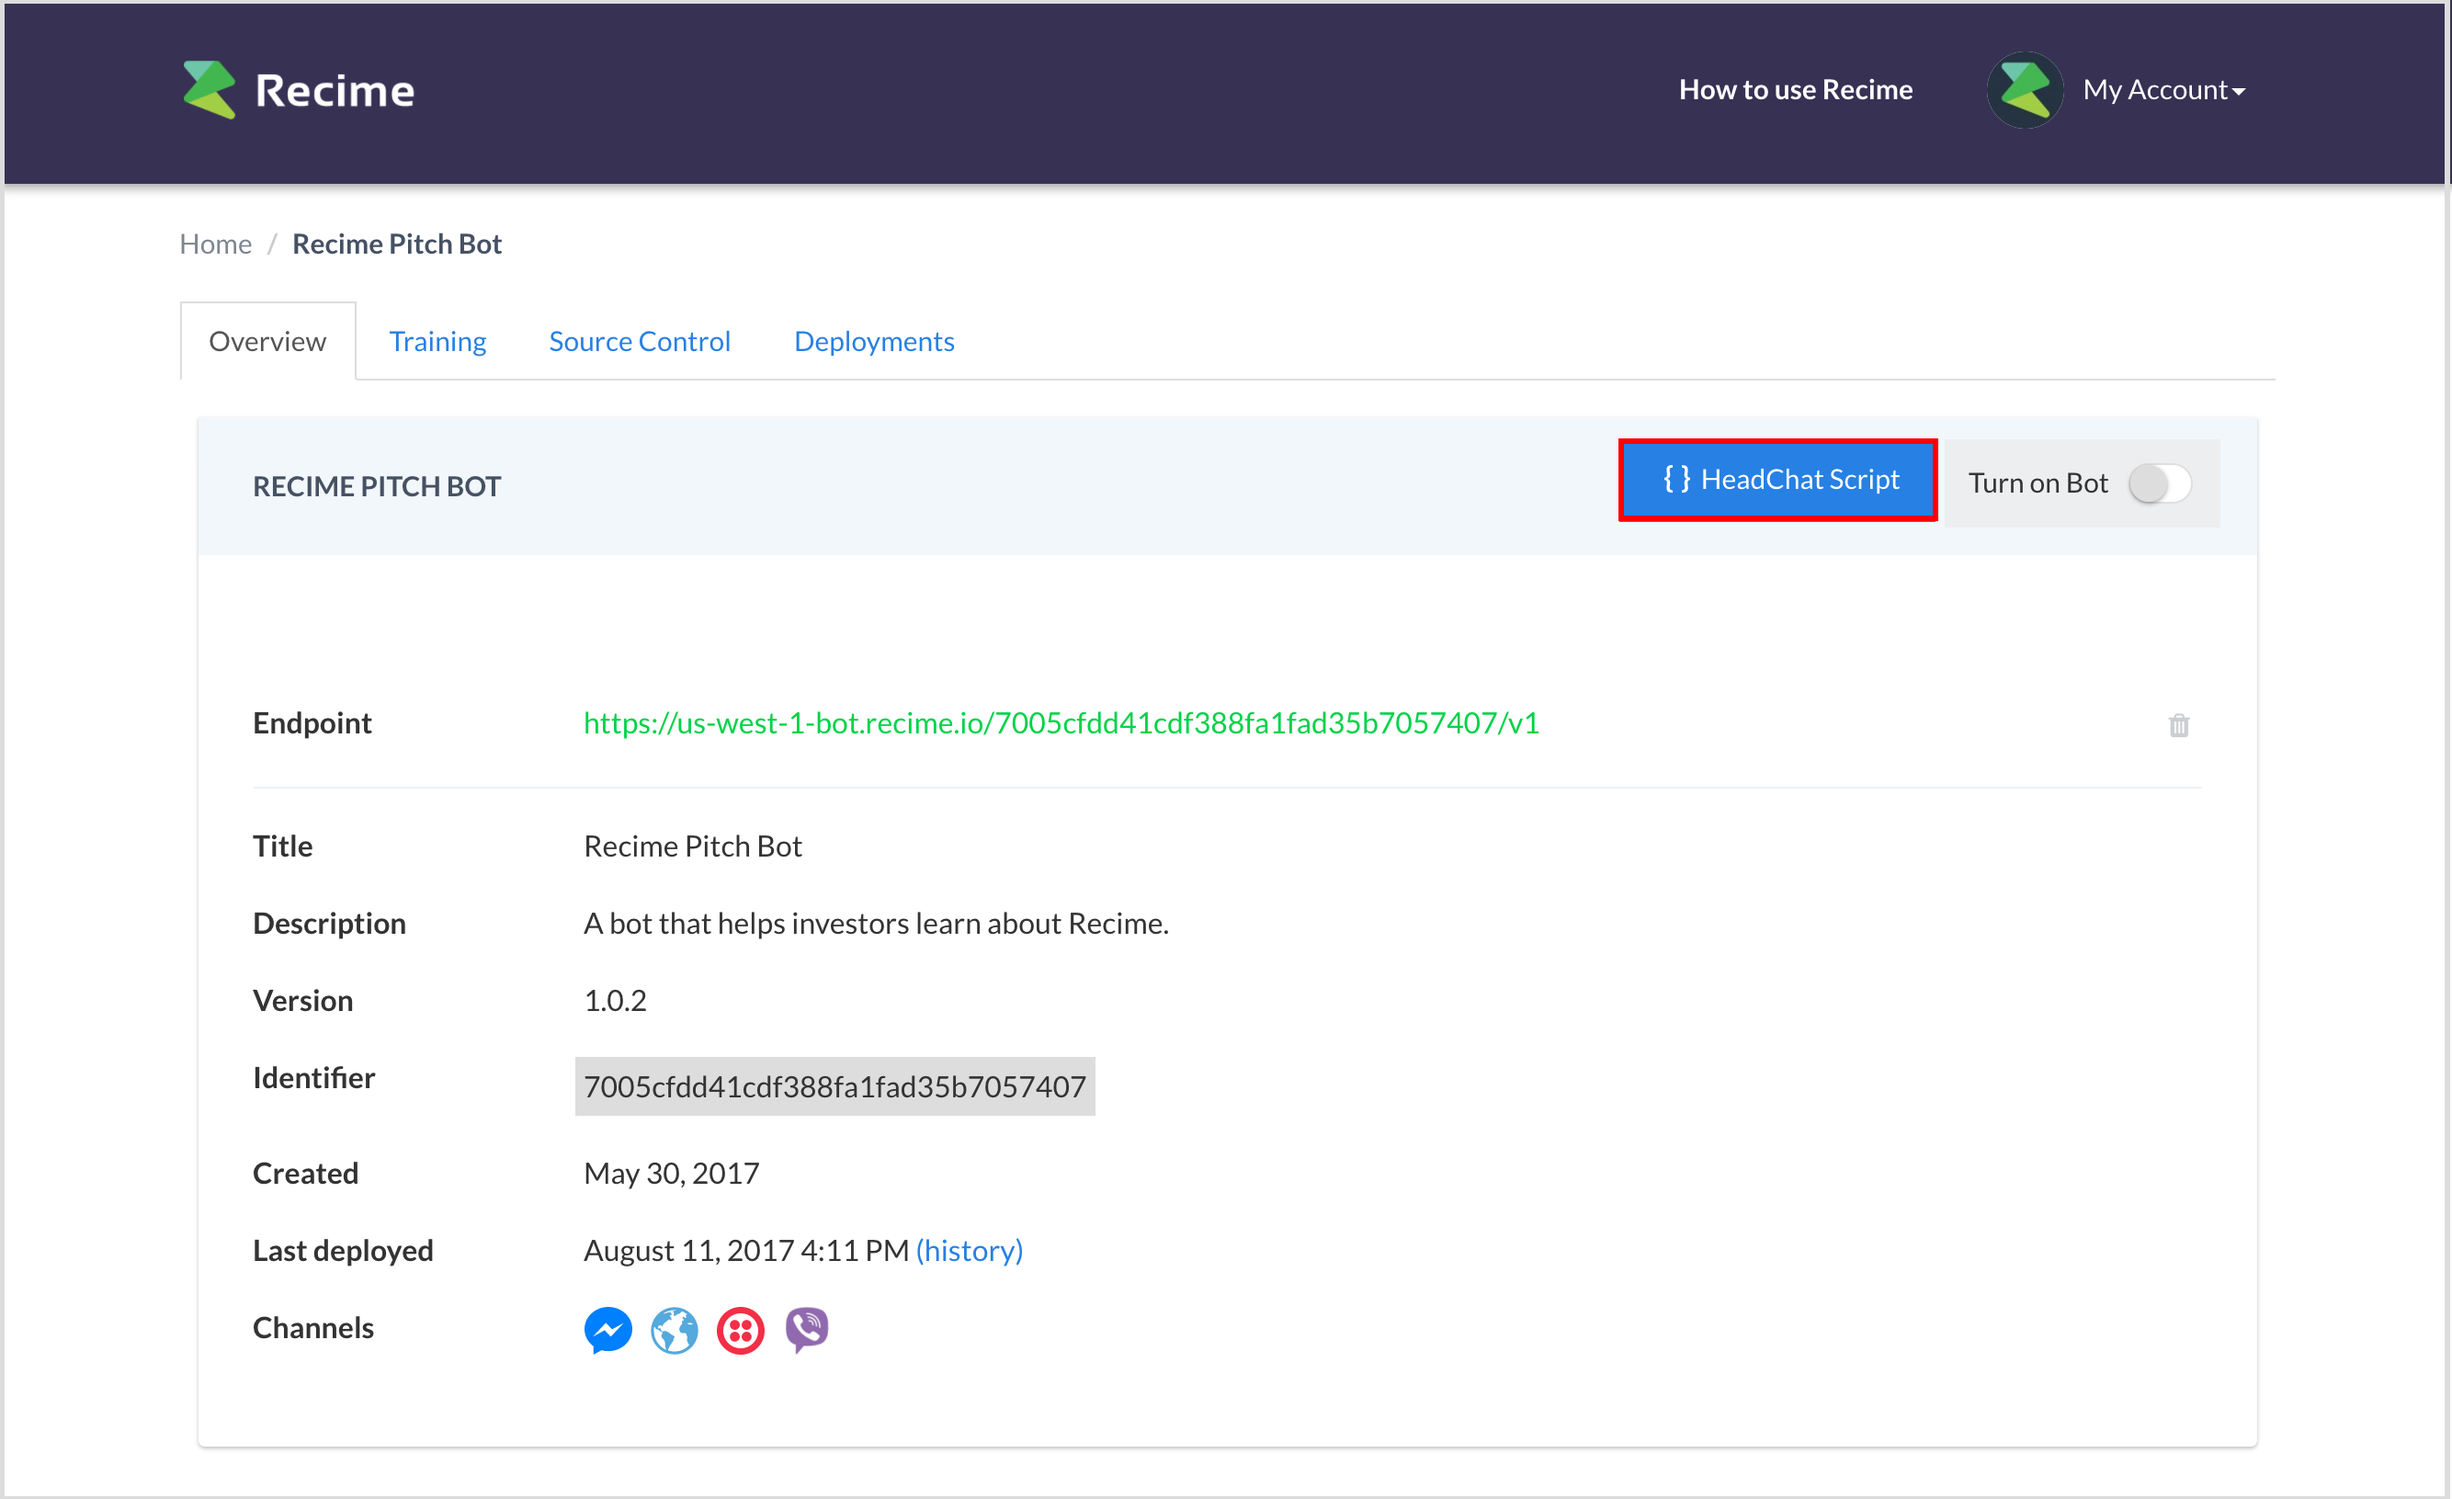
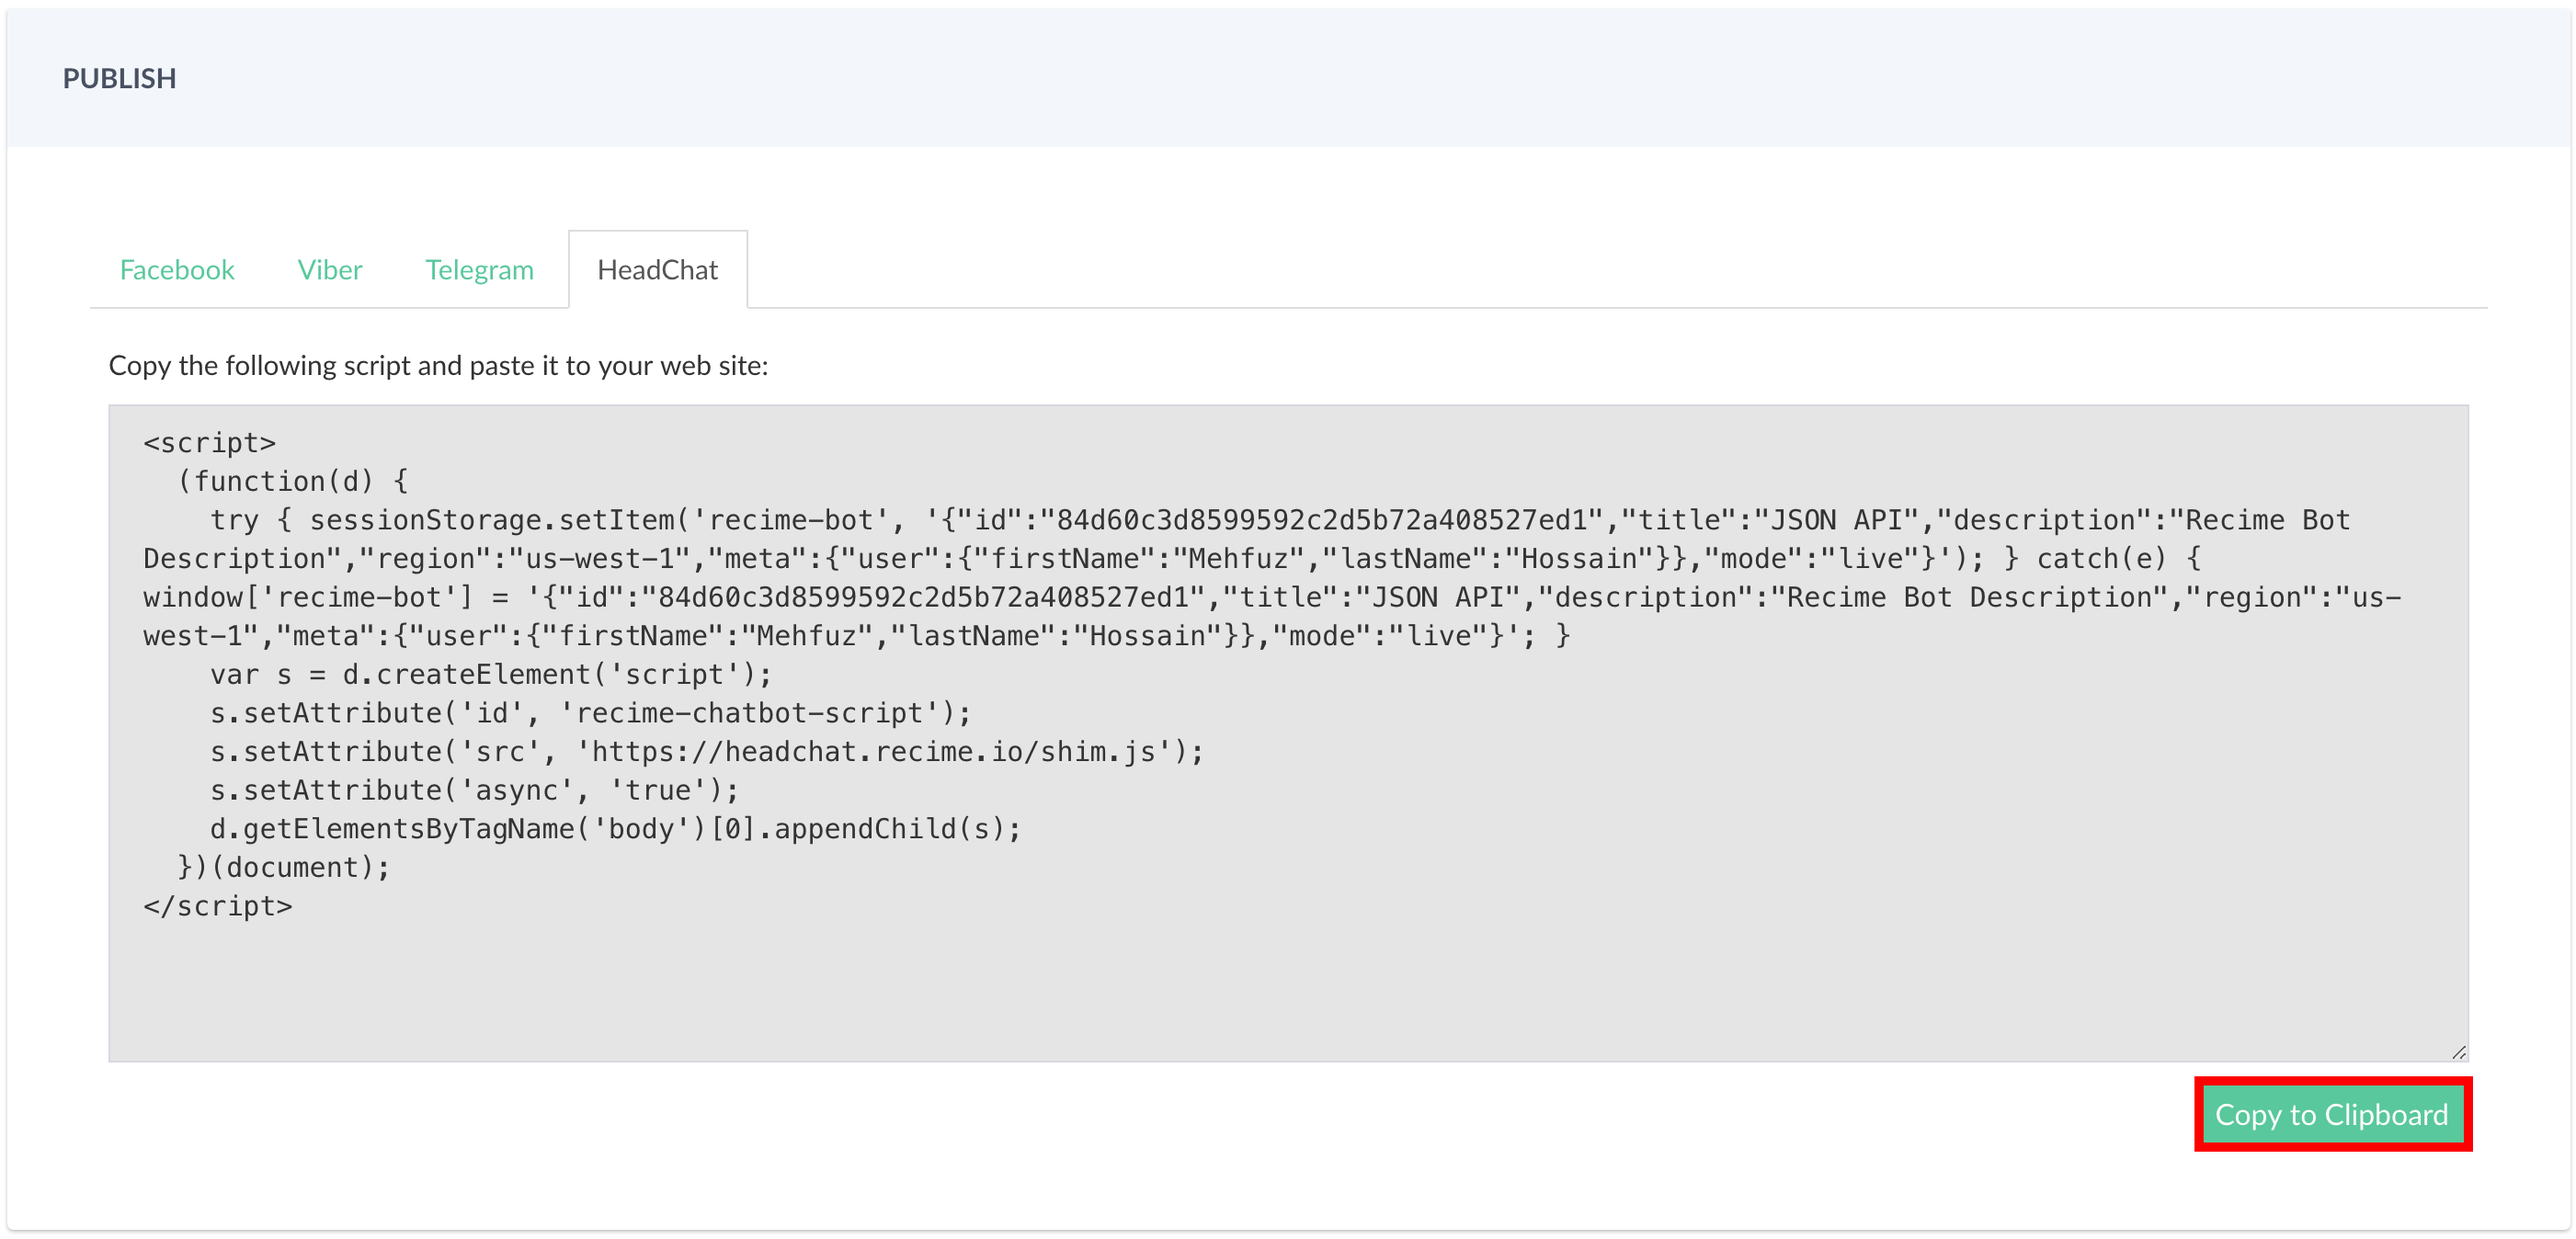
updates

diff --git a/headchat.md b/headchat.md
@@ -1,19 +1,17 @@
 # HeadChat
 
-Now you can take your chatbot and deploy to it your website in just a few steps. 
+Deploy your chatbot to your website in seconds.
 
-Once you have deployed the bot. You can do it by going to your [console.recime.io](https://console.recime.io) dashboard and copying the script by clicking the `headchat` button as shown below:
+Once you have deployed the bot. Go to your [dashboard](https://console.recime.io) dashboard and copy the script from `publish->headchat` tab as shown below:  
 
 ![](headchat.png)
 
 
-To get the messenger to appear on your web page simply paste the snippet before the `</body>` tag. That's it, you should now see the `headchat` icon and clicking on it will open up the conversation dialog.
+To get the messenger to appear on your web page, simply paste the snippet before the `</body>` tag. That's it, you should now see the `headchat` icon. Click on it to start chatting.
 
 
-![](pitchbot.png)
-
-It supports most of the Facebook `metadata` and your Facebook chatbot should work without a single line of code change. If you are using the `recime-bot-extension` npm package then all of these should be taken care of automatically.
+![](faqbot.png)
 
 
-
+`HeadChat` support rich metadata enabling you to go beyond simple FAQs and bring in rich AI customer experience. 
 

diff --git a/command-line-interface.md b/command-line-interface.md
@@ -1,0 +1,42 @@
+# Command Line Interface
+
+`Recime Command Line Interface` requires [node](https://nodejs.org/en/) (version >=6.9.1) and uses `npm` as package manager.
+
+You can create bots easily by using the `Recime` CLI. In order install the CLI, type following command:
+
+```shell
+npm install -g recime
+```
+
+Once the CLI is installed correctly, type the following to verify:
+
+```shell
+rbp --version
+```
+
+Next, go to [console.recime.io/my-account](https://console.recime.io/my-account) and copy the API Key to your clipboard.
+
+![](profile.png)
+
+
+Type the following command from your `macOS` terminal or `windows` comamnd prompt:
+
+```shell
+rbp login
+```
+
+Once verified, you will see the following confirmation:
+
+```shell
+~ rbp login
+Paste your api key from "console.recime.io/my-account":
+2880e1f07a2149509661d1ad19408d5b
+| 
+
+Logged in as: josh@recime.io
+
+For any questions and feedback, please reach us at hello@recime.io.
+~ 
+```
+
+Now you are all set and ready to create your first awesome bot!

diff --git a/SUMMARY.md b/SUMMARY.md
@@ -1,13 +1,13 @@
 # Summary
 
 * [Introduction](README.md)
-* [Installation](installation.md)
 * [Registration](register.md)
-* [Command Line Interface](cli.md)
+* [Command Line Interface](command-line-interface.md)
 * [Build](build.md)
 * [Debugging](debugging.md)
 * [Deploy](deploy.md)
 * [Cloud Code](cloud-code.md)
+* [HeadChat](headchat.md)
 * [Natural Language Processing](natural-language-processing.md)
 * [Configuration & Config Vars](config_vars.md)
 * [Message Object](message-object.md)
@@ -17,7 +17,6 @@
 * [Assets](assets.md)
 * [Key-Value](key-value-store.md)
 * [Analytics](analytics.md)
-* [HeadChat](headchat.md)
 * [Facebook Bot](facebook-bot.md)
   * [Create Facebook Page](create-facebook-page.md)
   * [Setup Facebook App](setup-facebook-app.md)
